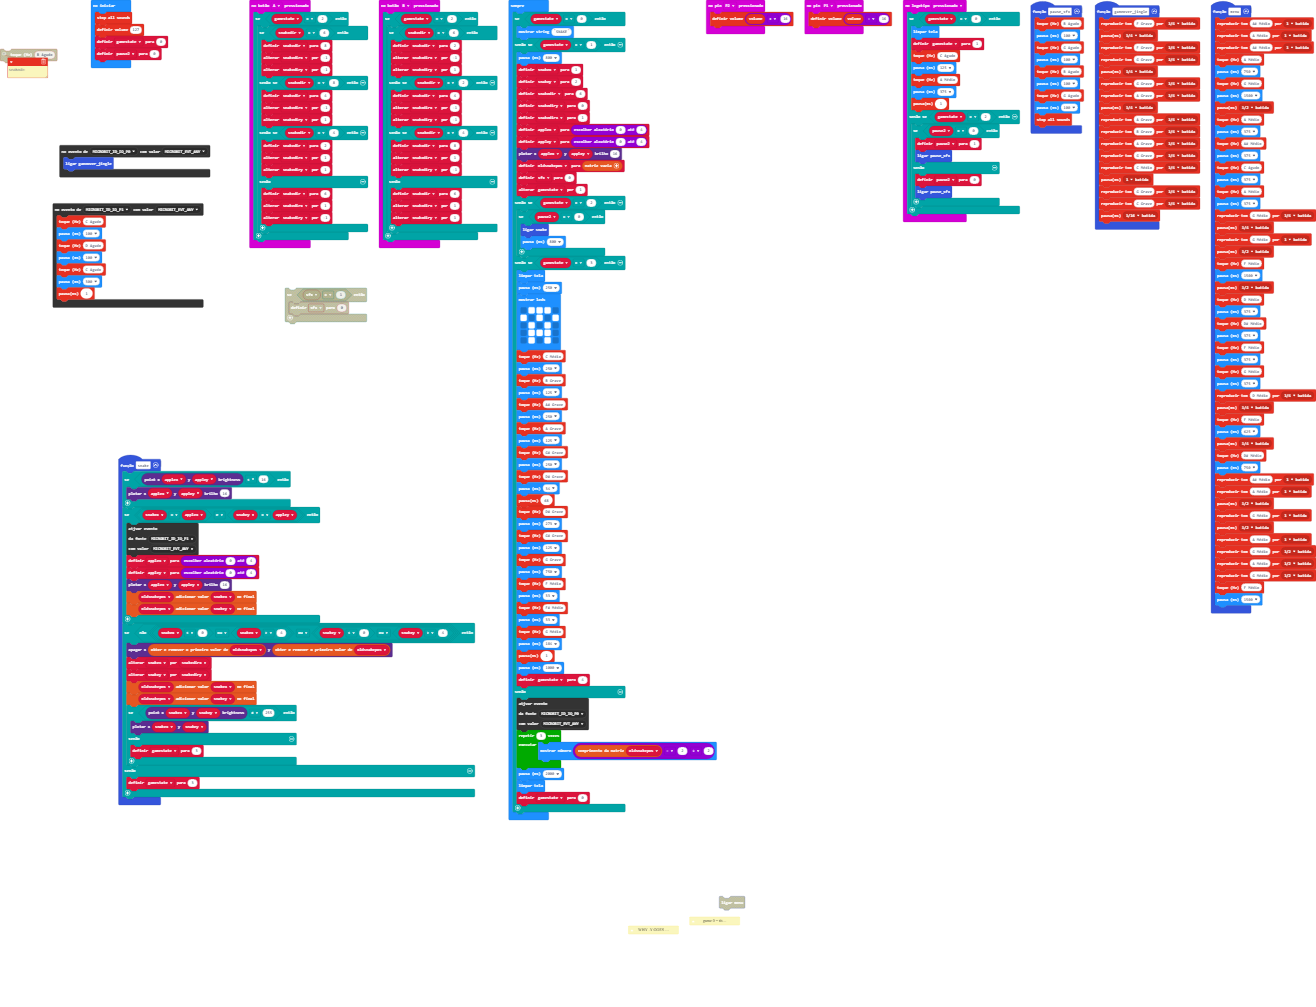
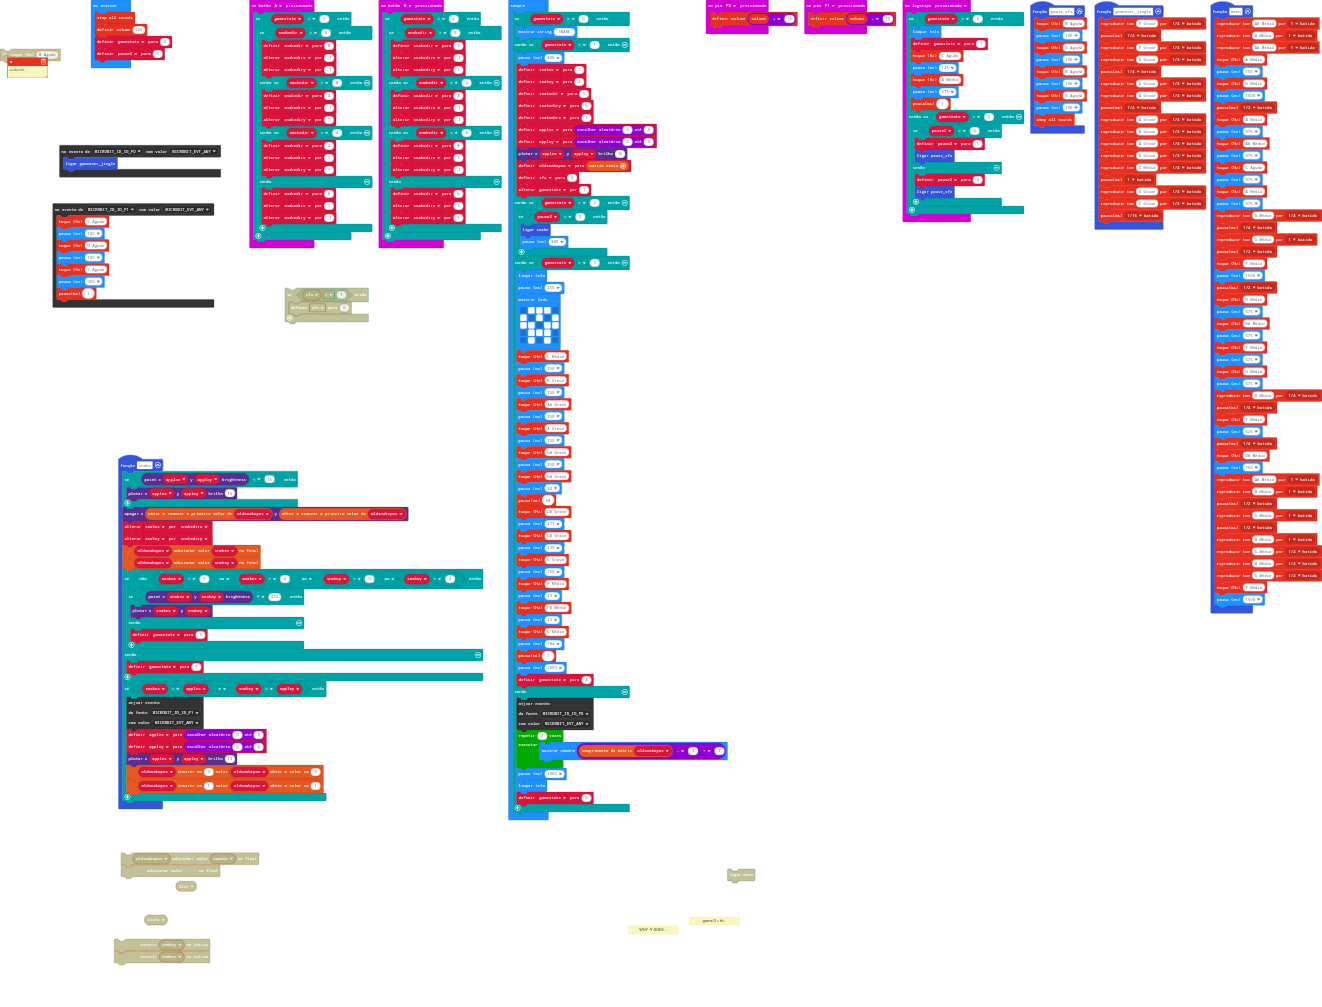
Atualizar 'main.blocks, main.ts'

diff --git a/main.ts b/main.ts
@@ -171,6 +171,20 @@ function snake () {
     if (led.pointBrightness(applex, appley) < 16) {
         led.plotBrightness(applex, appley, 16)
     }
+    led.unplot(oldsnakepos.shift(), oldsnakepos.shift())
+    snakex += snakedirx
+    snakey += snakediry
+    oldsnakepos.push(snakex)
+    oldsnakepos.push(snakey)
+    if (!(snakex < 0 || snakex > 4 || (snakey < 0 || snakey > 4))) {
+        if (led.pointBrightness(snakex, snakey) != 255) {
+            led.plot(snakex, snakey)
+        } else {
+            gamestate = 3
+        }
+    } else {
+        gamestate = 3
+    }
     if (snakex == applex && snakey == appley) {
         control.raiseEvent(
         EventBusSource.MICROBIT_ID_IO_P1,
@@ -179,22 +193,8 @@ function snake () {
         applex = randint(0, 4)
         appley = randint(0, 4)
         led.plotBrightness(applex, appley, 16)
-        oldsnakepos.push(snakex)
-        oldsnakepos.push(snakey)
-    }
-    if (!(snakex < 0 || snakex > 4 || (snakey < 0 || snakey > 4))) {
-        led.unplot(oldsnakepos.shift(), oldsnakepos.shift())
-        snakex += snakedirx
-        snakey += snakediry
-        oldsnakepos.push(snakex)
-        oldsnakepos.push(snakey)
-        if (led.pointBrightness(snakex, snakey) != 255) {
-            led.plot(snakex, snakey)
-        } else {
-            gamestate = 3
-        }
-    } else {
-        gamestate = 3
+        oldsnakepos.insertAt(0, oldsnakepos[0])
+        oldsnakepos.insertAt(1, oldsnakepos[1])
     }
 }
 control.onEvent(EventBusSource.MICROBIT_ID_IO_P1, EventBusValue.MICROBIT_EVT_ANY, function () {
@@ -207,9 +207,9 @@ control.onEvent(EventBusSource.MICROBIT_ID_IO_P1, EventBusValue.MICROBIT_EVT_ANY
     music.rest(1)
 })
 let sfx = 0
-let oldsnakepos: number[] = []
 let snakey = 0
 let snakex = 0
+let oldsnakepos: number[] = []
 let appley = 0
 let applex = 0
 let snakediry = 0
@@ -218,7 +218,7 @@ let snakedir = 0
 let pause2 = 0
 let gamestate = 0
 music.stopAllSounds()
-music.setVolume(127)
+music.setVolume(255)
 gamestate = 0
 pause2 = 0
 basic.forever(function () {
@@ -248,7 +248,7 @@ basic.forever(function () {
         basic.showLeds(`
             . # # # .
             # . # . #
-            . # . # .
+            # # . # #
             . # # # .
             . # . # .
             `)
